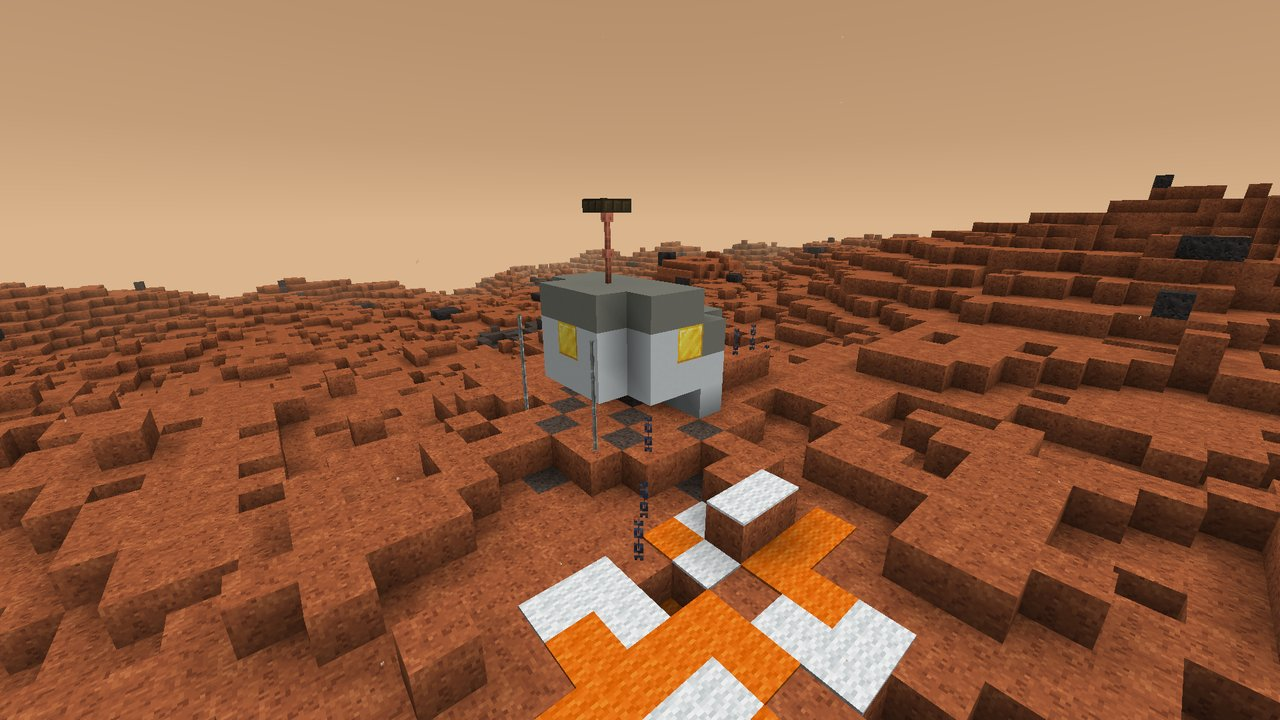
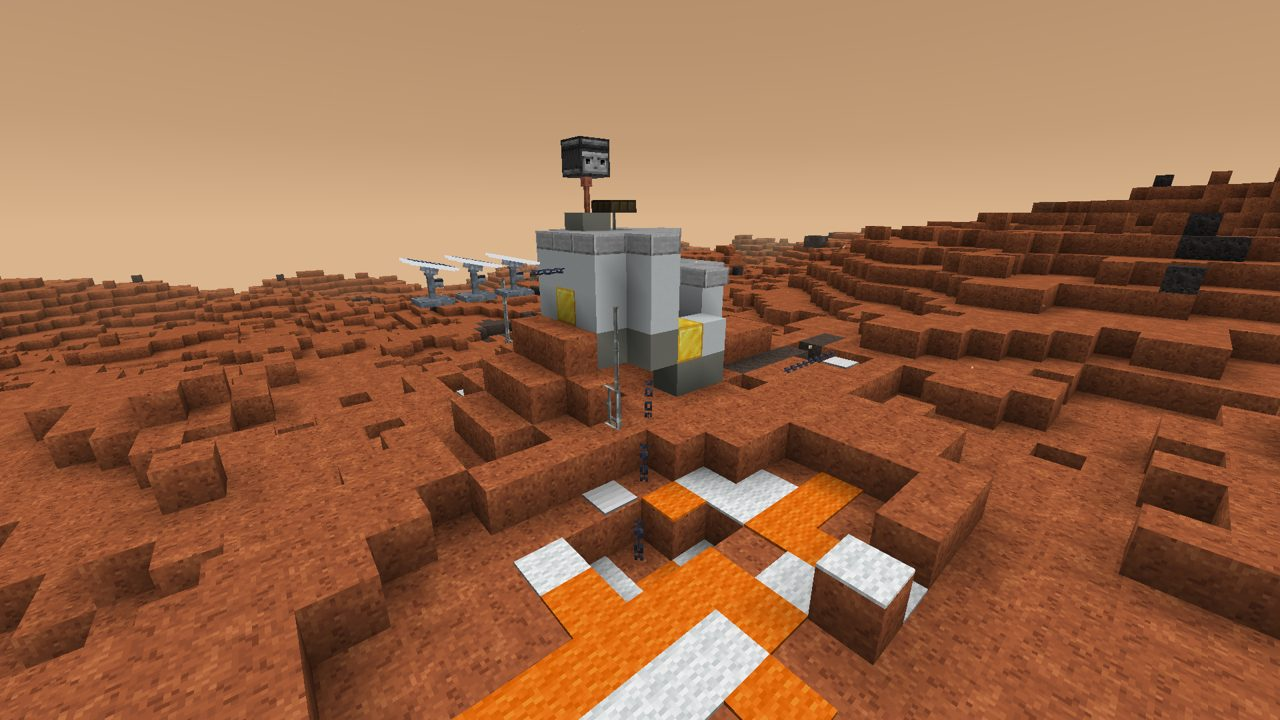
Mars lost lander rebuilt: octagonal bus on splayed legs
Four legs with footpads, one snapped so the body sags at that corner; a solar wing out, the other torn off in the dust; camera mast and dish on the top deck; skid marks from the bounce, the heat shield on its edge half buried, dust against the west side. Same loot, parachute and test.

diff --git a/src/main/java/com/pizzaparker07/spacebreaker/content/mars/dungeon/LanderWreckPiece.java b/src/main/java/com/pizzaparker07/spacebreaker/content/mars/dungeon/LanderWreckPiece.java
@@ -17,8 +17,8 @@ import net.minecraft.world.level.levelgen.structure.StructurePiece;
 import net.minecraft.world.level.levelgen.structure.pieces.StructurePieceSerializationContext;
 
 /**
- * The wreck of an old lander: a hexagonal white body slumped on a broken leg, its heat shield half buried a little way
- * off, the orange-and-white parachute spread over the dust, and the data recorder still sealed inside. Everything that
+ * The wreck of an old lander: an octagonal bus on four splayed legs, one of them snapped so the body sags at that
+ * corner, a solar wing torn off, its heat shield standing half buried a little way off, the orange-and-white parachute spread over the dust, and the data recorder still sealed inside. Everything that
  * lies on the ground follows the terrain; drifting dust has partly covered it.
  */
 public class LanderWreckPiece extends StructurePiece {
@@ -86,63 +86,99 @@ public class LanderWreckPiece extends StructurePiece {
         BlockState white = s(Blocks.WHITE_CONCRETE);
         BlockState grey = s(Blocks.LIGHT_GRAY_CONCRETE);
         BlockState foil = s(Blocks.GOLD_BLOCK);
-        // a shallow scuffed patch where it came down hard
-        for (int dx = -4; dx <= 4; dx++) {
-            for (int dz = -4; dz <= 4; dz++) {
-                if (dx * dx + dz * dz <= 17) {
-                    int gy = ground(level, cx + dx, cz + dz);
-                    set(level, box, cx + dx, gy - 1, cz + dz, (dx + dz) % 3 == 0 ? s(MarsModule.MARTIAN_SAND.get()) : s(MarsModule.MARTIAN_REGOLITH.get()));
-                }
+        BlockState deck = s(Blocks.SMOOTH_STONE_SLAB).setValue(net.minecraft.world.level.block.SlabBlock.TYPE, net.minecraft.world.level.block.state.properties.SlabType.BOTTOM);
+        // skid marks: it bounced in from the east before it came to rest
+        for (int i = 3; i <= 9; i++) {
+            for (int side : new int[]{-1, 1}) {
+                int gx = cx + i;
+                int gz = cz + side * 2;
+                set(level, box, gx, ground(level, gx, gz) - 1, gz, s(MarsModule.MARTIAN_SAND.get()));
             }
         }
-        // the body: a squat hexagon (3 layers), tilted down toward its broken leg
-        for (int layer = 0; layer < 3; layer++) {
-            for (int dx = -2; dx <= 2; dx++) {
-                for (int dz = -2; dz <= 2; dz++) {
-                    if (Math.abs(dx) + Math.abs(dz) > 3) {
-                        continue;
-                    }
-                    int tilt = dx >= 1 ? 0 : 1; // the west side sits a block higher
-                    boolean shell = Math.abs(dx) == 2 || Math.abs(dz) == 2 || Math.abs(dx) + Math.abs(dz) == 3 || layer != 1;
-                    BlockState st = shell ? (layer == 1 && (dx + dz) % 2 == 0 ? foil : layer == 2 ? grey : white) : s(Blocks.AIR);
-                    set(level, box, cx + dx, y + layer + tilt, cz + dz, st);
+        // the body: an octagonal bus on a deck, standing a block clear of the ground on its legs. The south-east leg gave
+        // way, so that corner of the body sits a block lower.
+        int b = y + 2;
+        for (int dx = -2; dx <= 2; dx++) {
+            for (int dz = -2; dz <= 2; dz++) {
+                if (Math.abs(dx) == 2 && Math.abs(dz) == 2) {
+                    continue;
                 }
+                int t = dx + dz >= 2 ? -1 : 0;
+                boolean edge = Math.abs(dx) == 2 || Math.abs(dz) == 2;
+                boolean diagonal = Math.abs(dx) + Math.abs(dz) == 3;
+                set(level, box, cx + dx, b + t, cz + dz, grey);
+                for (int dy = 1; dy <= 2; dy++) {
+                    BlockState wall = diagonal ? white : (dy == 1 ? foil : white);
+                    set(level, box, cx + dx, b + dy + t, cz + dz, edge ? wall : s(Blocks.AIR));
+                }
+                set(level, box, cx + dx, b + 3 + t, cz + dz, deck);
             }
         }
-        // the data recorder inside, and a torn panel to reach it
-        set(level, box, cx, y + 2, cz, s(Blocks.AIR));
-        set(level, box, cx + 2, y + 1, cz, s(Blocks.AIR));
-        set(level, box, cx + 2, y + 2, cz, s(Blocks.AIR));
-        BlockPos chest = new BlockPos(cx, y + 1, cz);
+        // the torn side panel and the data recorder inside
+        set(level, box, cx, b + 1, cz + 2, s(Blocks.AIR));
+        set(level, box, cx, b + 2, cz + 2, s(Blocks.AIR));
+        set(level, box, cx + 1, b + 1, cz + 2, s(Blocks.AIR));
+        BlockPos chest = new BlockPos(cx, b + 1, cz);
         if (box.isInside(chest)) {
             level.setBlock(chest, s(Blocks.CHEST), Block.UPDATE_CLIENTS);
             if (level.getBlockEntity(chest) instanceof net.minecraft.world.level.block.entity.ChestBlockEntity be) {
                 be.setLootTable(MarsLoot.LANDER_DATA, seed);
             }
         }
-        // legs: two still standing, one snapped off and lying in the dust
-        for (int[] leg : new int[][]{{-3, -2}, {-3, 2}}) {
-            int ly = ground(level, cx + leg[0], cz + leg[1]);
-            for (int dy = ly; dy <= y + 2; dy++) {
-                set(level, box, cx + leg[0], dy, cz + leg[1], s(Blocks.IRON_BARS));
+        // legs: struts out to footpads at the four diagonals; the south-east one snapped and lies flat
+        for (int[] leg : new int[][]{{-1, -1}, {1, -1}, {-1, 1}, {1, 1}}) {
+            int fx = cx + leg[0] * 4;
+            int fz = cz + leg[1] * 4;
+            int fy = ground(level, fx, fz);
+            if (leg[0] == 1 && leg[1] == 1) {
+                for (int i = 0; i < 3; i++) {
+                    set(level, box, cx + 3 + i, ground(level, cx + 3 + i, cz + 4), cz + 4, s(Blocks.CHAIN).setValue(net.minecraft.world.level.block.ChainBlock.AXIS, net.minecraft.core.Direction.Axis.X));
+                }
+                set(level, box, cx + 6, ground(level, cx + 6, cz + 4), cz + 4, s(Blocks.HEAVY_WEIGHTED_PRESSURE_PLATE));
+                continue;
+            }
+            set(level, box, fx, fy, fz, s(Blocks.HEAVY_WEIGHTED_PRESSURE_PLATE));
+            int sx = cx + leg[0] * 3;
+            int sz = cz + leg[1] * 3;
+            for (int dy = ground(level, sx, sz); dy <= b + 1; dy++) {
+                set(level, box, sx, dy, sz, s(Blocks.IRON_BARS));
             }
         }
+        // a solar wing still folded out to the west; the east wing broke off and lies in the dust
+        for (int i = 3; i <= 6; i++) {
+            set(level, box, cx - i, b + 2, cz, i == 3 ? s(Blocks.CHAIN).setValue(net.minecraft.world.level.block.ChainBlock.AXIS, net.minecraft.core.Direction.Axis.X)
+                    : s(com.pizzaparker07.spacebreaker.content.machines.MachinesModule.SOLAR_PANEL.get()));
+        }
         for (int i = 0; i < 3; i++) {
-            set(level, box, cx + 4 + i, ground(level, cx + 4 + i, cz + 1), cz + 1, s(Blocks.CHAIN));
+            int wx = cx + 5 + i;
+            int wz = cz - 2;
+            set(level, box, wx, ground(level, wx, wz), wz, s(com.pizzaparker07.spacebreaker.content.machines.MachinesModule.SOLAR_PANEL.get()));
         }
-        // mast and a bent high-gain antenna
-        for (int dy = 4; dy <= 5; dy++) {
-            set(level, box, cx - 1, y + dy, cz, s(Blocks.LIGHTNING_ROD));
-        }
-        set(level, box, cx - 1, y + 6, cz, s(Blocks.DAYLIGHT_DETECTOR));
-        // the heat shield, half buried a little way north-east
-        int hx = cx + 8;
-        int hz = cz - 5;
-        for (int dx = -2; dx <= 2; dx++) {
+        // on the top deck: the camera mast and the high-gain dish, still pointed at the sky
+        set(level, box, cx - 1, b + 3, cz - 1, s(Blocks.LIGHT_GRAY_CONCRETE));
+        set(level, box, cx - 1, b + 4, cz - 1, s(Blocks.LIGHTNING_ROD));
+        set(level, box, cx - 1, b + 5, cz - 1, s(Blocks.OBSERVER));
+        set(level, box, cx, b + 3, cz - 1, s(Blocks.IRON_BARS));
+        set(level, box, cx, b + 4, cz - 1, s(Blocks.DAYLIGHT_DETECTOR));
+        // dust drifted against the west side, up to the deck
+        for (int dx = -5; dx <= -3; dx++) {
             for (int dz = -2; dz <= 2; dz++) {
-                if (dx * dx + dz * dz <= 5) {
-                    int gy = ground(level, hx + dx, hz + dz);
-                    set(level, box, hx + dx, gy - (dx < 0 ? 1 : 0), hz + dz, dx * dx + dz * dz <= 1 ? s(Blocks.BROWN_TERRACOTTA) : s(Blocks.TERRACOTTA));
+                int top = y + (dx + 5) - (Math.abs(dz) == 2 ? 1 : 0);
+                for (int dy = ground(level, cx + dx, cz + dz); dy <= top; dy++) {
+                    if (level.getBlockState(new BlockPos(cx + dx, dy, cz + dz)).isAir()) {
+                        set(level, box, cx + dx, dy, cz + dz, s(MarsModule.MARTIAN_REGOLITH.get()));
+                    }
+                }
+            }
+        }
+        // the heat shield, dropped before landing: a dish standing on its edge, half buried, a little way north-east
+        int hx = cx + 8;
+        int hz = cz - 6;
+        int hy = ground(level, hx, hz);
+        for (int dx = -2; dx <= 2; dx++) {
+            for (int dy = -2; dy <= 2; dy++) {
+                if (dx * dx + dy * dy <= 5) {
+                    set(level, box, hx + dx, hy + dy, hz, dx * dx + dy * dy <= 1 ? s(Blocks.BROWN_TERRACOTTA) : s(Blocks.TERRACOTTA));
                 }
             }
         }

diff --git a/docs/CONTENT.md b/docs/CONTENT.md
@@ -165,7 +165,7 @@ Her içerik paketi gerçek istemcide vitrin dünyasında fotoğraflanır; onayda
 | 🎨 | Su buzu bulutları ve kanyon sisi | Viking gözlemleri gibi: Büyük Yarık Kanyonu tabanında gün doğumundan hemen sonra ince, soluk pembemsi-ten sis (en yoğun anda ~80 blok görüş; tabanda dolu, ~30 blok yukarıda biter, alçak gök de puslanır, kuşluğa doğru dağılır); afelyon mevsiminde (Ls≈95 ±28°) ekvator üzerinde ince, tüy gibi mavimsi-beyaz bulut şeritleri (kodla çizilmiş 256 px doku, yumuşak kenarlar, düşük opaklık, yavaş sürüklenir); yalnızca istemci, shader güvenli; mevsim sunucudan istemciye senkron |
 | 🎨 | Mars göğünde Dünya ve Ay | gökyüzü efemerisinden gerçek konumda: Dünya parlak mavi-beyaz sabah/akşam yıldızı, Ay yanında sönük ayrı bir nokta (çakışınca gerçek yönde ayrılır); Phobos/Deimos yalnızca Mars göğünün kendi diskleri olarak (çift çizim giderildi, moon) |
 | 🎨 | Zindanlar | Terk Edilmiş Mars Araştırma İstasyonu (yeniden tasarım: kaburgalı kubbe ve dört sekizgen kesitli basınçlı tüp; sera, ışıkları hâlâ yanan laboratuvar + ISRU kontrolü, fırtınanın delip toz doldurduğu garaj, iki kapılı hava kilidi; modüller arazinin üstüne oturur: yakın zeminde regolit set, derinde gri ayaklar; batı duvarlarına yığılmış toz, kum basmış güneş dizisi ve kablosu, yakıt tanklarına boru köprüsü, ayaklı iniş pisti ve devrilmiş kargo kızağı, sondaj kulesi; 'Sol 412' son kayıt tabelası), Antik Gömülü Nehir Yatağı (katmanlı mağara, kil yatak, düşmüş sonda) |
-| 🎨 | Kayıp İniş Aracı | ovalarda seyrek (≈1/km, gezici yolculuğu): eğik altıgen gövde, kırık bacak, gömülü ısı kalkanı, toza serilmiş turuncu-beyaz paraşüt; veri kaydedicide uzay sondaları / Mars jeolojisi / derin uzay ağı diski, deney verisi |
+| 🎨 | Kayıp İniş Aracı | ovalarda seyrek (≈1/km, gezici yolculuğu): dört açık bacak üstünde sekizgen gövde (altın folyo paneller), güneydoğu bacağı kırılmış ve gövde o köşeye çökmüş; batı güneş kanadı açık, doğu kanadı kopup toza düşmüş; üst güvertede kamera direği ve anten çanağı; yanı yırtılmış panelden görünen veri kaydedici; doğudan sekerek gelişin kızak izleri, kenarı üstünde yarı gömülü ısı kalkanı, batı yanına yığılmış toz, toza serilmiş turuncu-beyaz paraşüt; veri kaydedicide uzay sondaları / Mars jeolojisi / derin uzay ağı diski, deney verisi |
 | 🎨 | Lav tüpleri | volkan ve ova altında doğal tüneller (bazalt kabuk, cilalı lav astarı, olivin kumlu taban), çökmüş ışıklıklardan girilir; 5+ blok tavan radyasyonu 1/32'nin altına düşürür: hazır üs yeri |
 | 🎨 | Kutup katmanlı tortuları | temiz buz arasında düzensiz aralıklı ince toz bantları (12 blokta 1–3), kutup oluklarının duvarlarında görünür |
 | 🎨 | Endüstri girdileri | kırıcıda: Perkloratlı Toprak → Perklorat Tuzu (`c:dusts/perchlorate`, oksijen kaynağı); Mars/tozlu/krater buzu → buz (`c:ices/water`, eriyip elektroliz suyu olur) |
